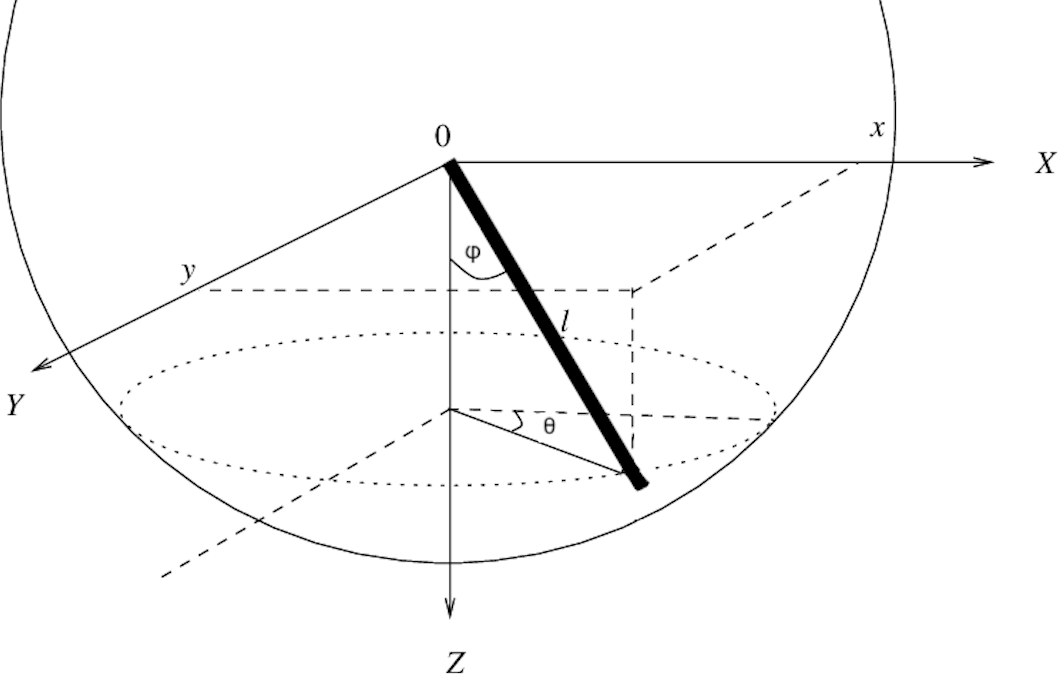
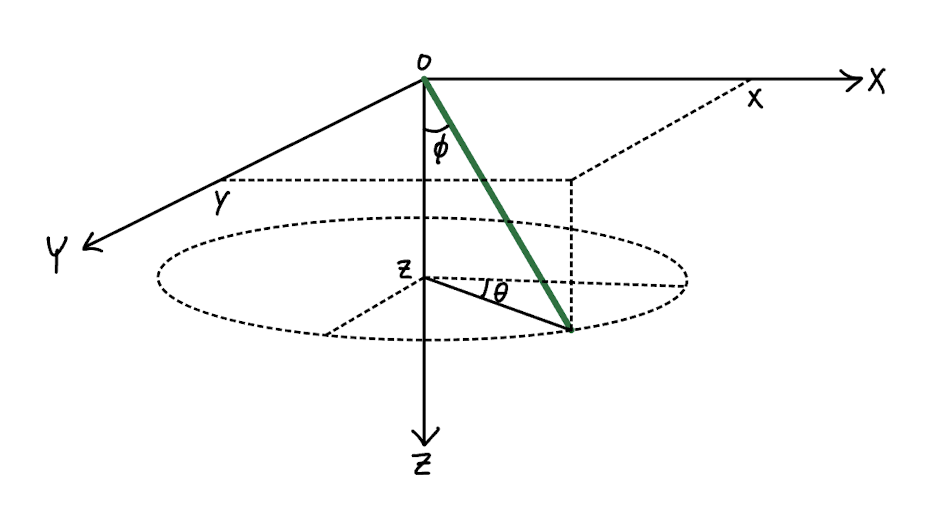
Update

diff --git a/_projects/single_pendulum.md b/_projects/single_pendulum.md
@@ -7,16 +7,18 @@ importance: 1
 category: work
 ---
 ### Overview
-One of the challenges of 3D rigid body dynamics is that the angular momentum vector is not always aligned with the angular velocity vector (as it is in the 2D case). In 3D, the two quantities are related by the moment of inertia tensor. To study the complications of 3D rigid body dynamics, I simulated a compound pendulum in 3D.
+One of the challenges of 3D rigid body dynamics is that the angular momentum vector is not always aligned with the angular velocity vector (as it is in the 2D case). In 3D, the two quantities are related by the moment of inertia tensor. To study the complications of 3D rigid body dynamics, I simulated a compound pendulum in 3D. To simplify the math, the pendulum will not be allowed to twist about its longitudinal axis. This is equivalent to connecting the pendulum to the base via a universal joint.  
 
 I took two different approaches to solving for the motion of the pendulum: (1) Newton-Euler method and (2) Lagrange method. Both methods are fully explored in the sections below.
 
 ### Newton-Euler Method
 The Newton-Euler approach is the standard $$ \sum \mathbf{F}=m\mathbf{a} $$ (linear moment balance) and $$ \sum \mathbf{M}=I\mathbf{\alpha} $$ (angular momentum balance) approach to the problem.
 
-First, the position of the pendulum can be fully defined by two angles, $$ \theta $$ and $$ \phi $$. Hence solving for the motion of the pendulum boils down to solving for the time evolution of these two angles.
+In general, you need 6 coordinates to fully describe the position and orientation of a rigid body in 3D space (3 for position and 3 for orientation). Constraining the pendulum to be rigidly attached to the base reduces this to 3 coordinates (3 angles). The no-twist condition reduces this to two angles. I defined these two angles as $$ \theta $$ and $$ \phi $$. Hence solving for the motion of the pendulum boils down to solving for the time evolution of these two angles.
 
 <div class="row mt-3">
     <div class="col-sm mt-3 mt-md-0">
         {% include figure.html path="assets/img/angles.png" class="img-fluid rounded z-depth-1" %}
     </div>
+
+  Like in any dynamics problem, the next step is to draw a free-body diagram of the system:
